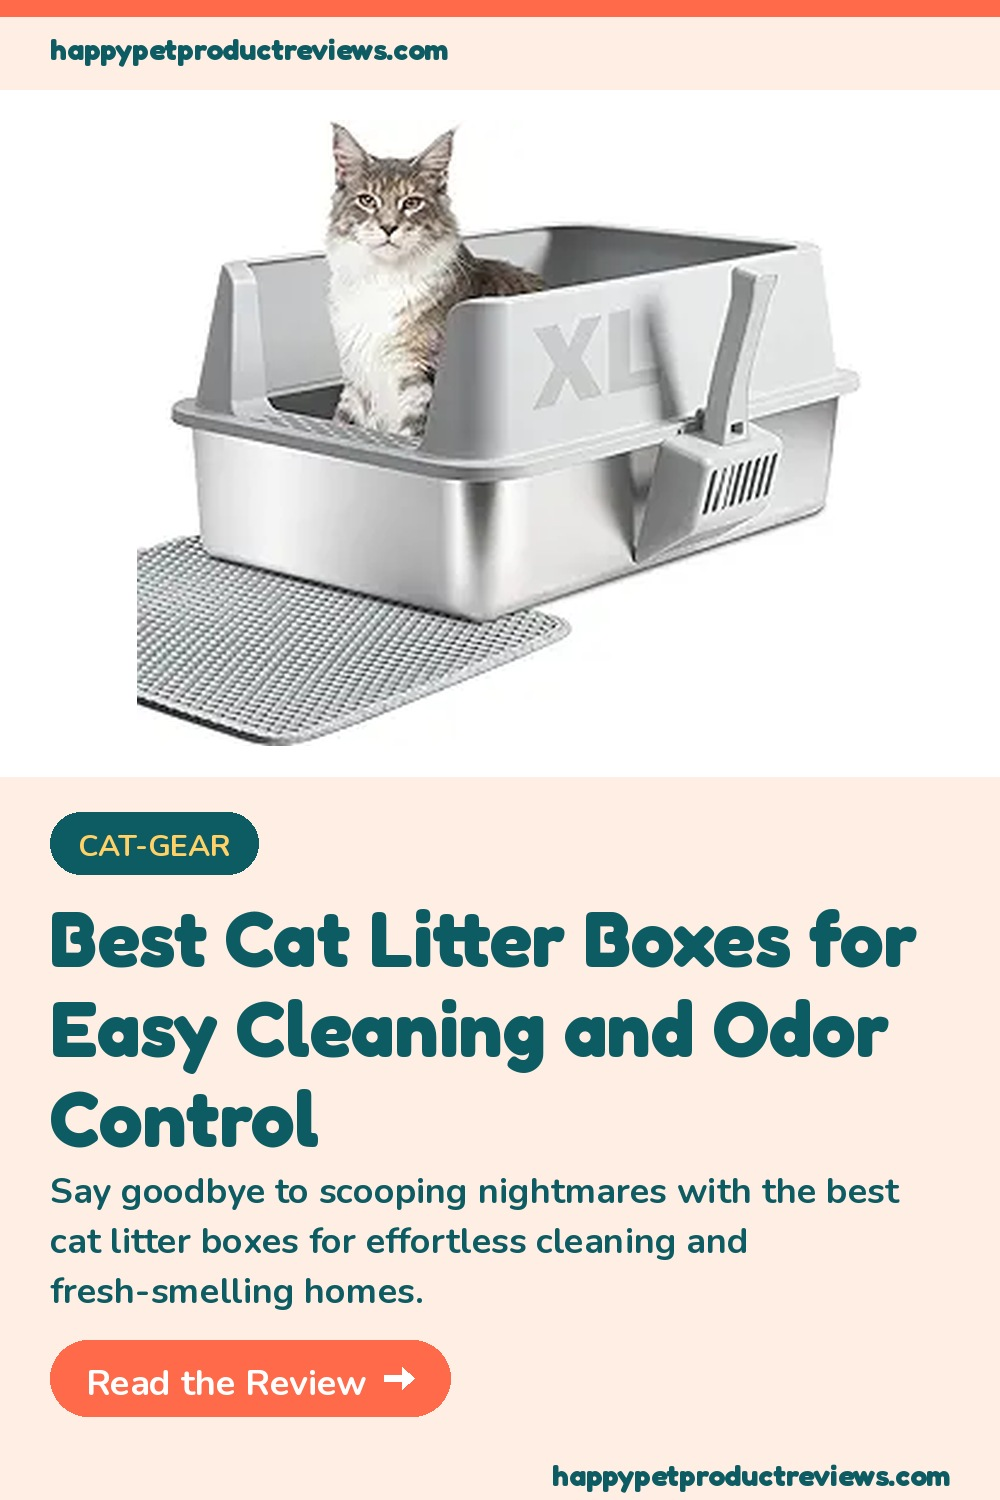
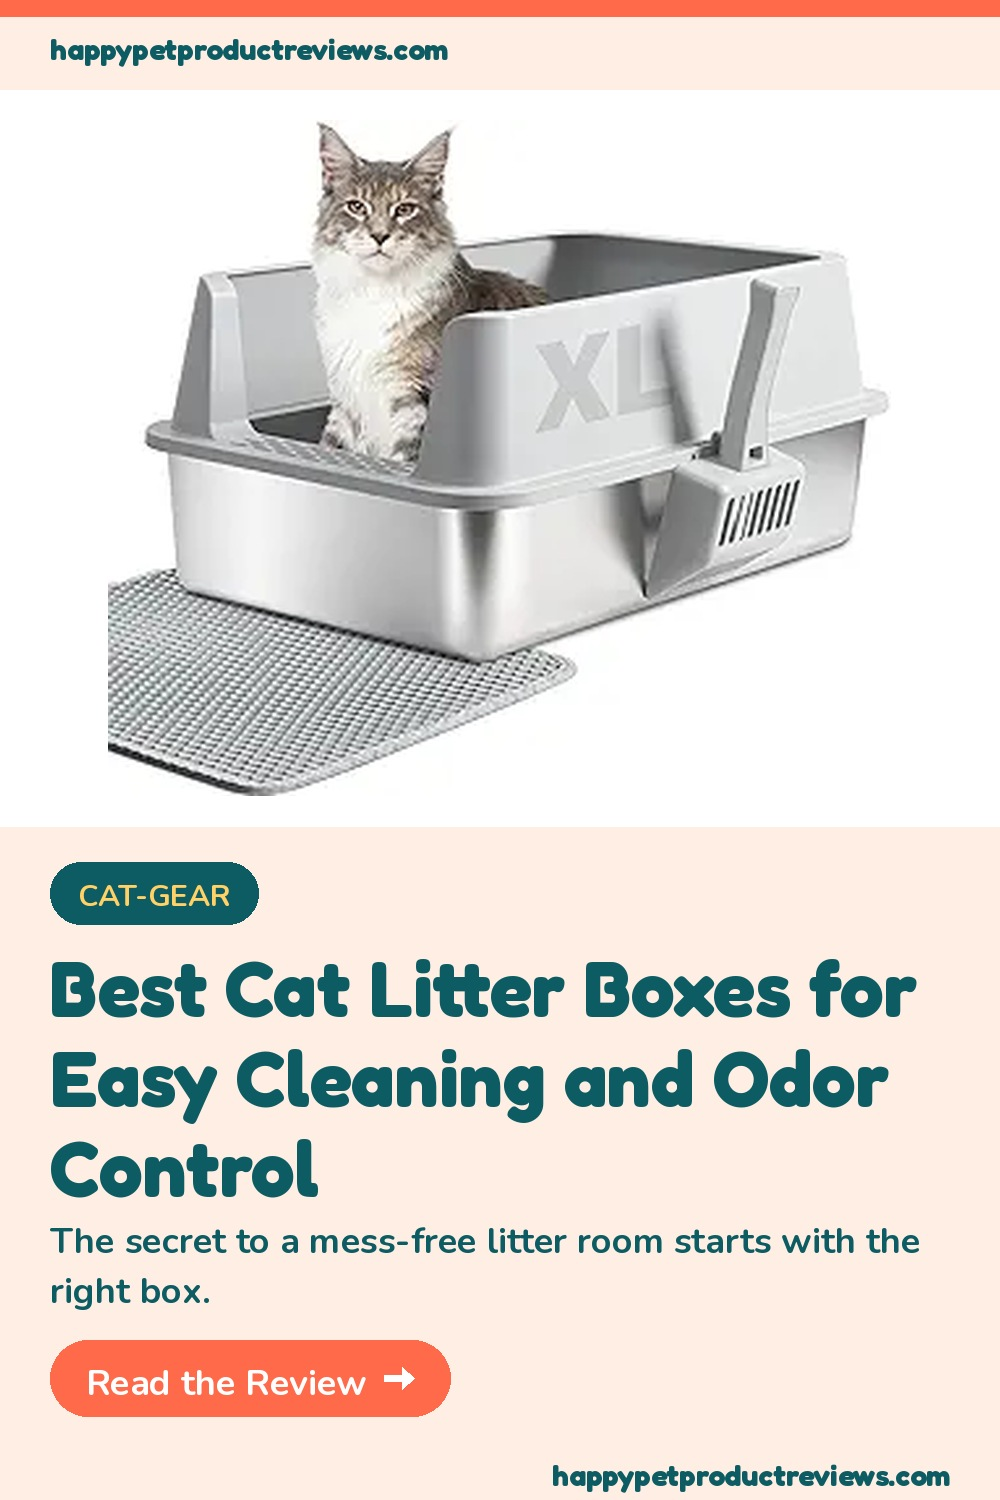
auto: stage generated files 2026-04-19

Changed region(s): [[0.0, 0.0613, 1.0, 0.8893]]

diff --git a/_posts/DRAFT-best-cat-litter-boxes.md b/_posts/DRAFT-best-cat-litter-boxes.md
@@ -1,0 +1,88 @@
+---
+layout: post
+title: "Best Cat Litter Boxes for Easy Cleaning and Odor Control"
+date: 2026-04-19
+categories: [cat-gear]
+species: cat
+tags: [best cat litter boxes]
+description: "The secret to a mess‑free litter room starts with the right box."
+affiliate_url: "https://amzn.to/3QePDv1"
+image: "https://m.media-amazon.com/images/I/61yepIfxn0L._AC_SX300_SY300_QL70_FMwebp_.jpg"
+---
+
+
+# Best Cat Litter Boxes for Easy Cleaning and Odor Control
+
+Ever walked into the bathroom to find a fresh‑scented cloud of cat litter dust hovering over the floor? We’ve all been there—your cat’s box looks tidy, but the smell clings to every surface, and cleaning it feels like a chore you’d rather skip. After testing dozens of options, we’ve narrowed the field to the **best cat litter boxes** that actually make scooping quick, keep odors in check, and stay durable enough for daily use. Below you’ll find our top pick, a handful of solid alternatives, and a quick‑reference table to help you decide which style fits your home and your cat’s personality.
+
+## Quick Picks
+
+| Rank | Product | Why It Stands Out |
+|------|---------|-------------------|
+| 1 | **[Stainless Steel Cat Litter Box with Lid, XL Metal, Extra Large](https://amzn.to/3QePDv1)** | Ultra‑durable, odor‑blocking lid, easy‑wipe surface |
+| 2 | Eco-Friendly Recycled Plastic Box with Replaceable Carbon Filter | Eco‑conscious, low‑profile design |
+| 3 | Self‑Cleaning Automatic Litter Box with Adjustable Cycle | Hands‑free cleaning, ideal for multiple cats |
+| 4 | Large Covered Fabric Litter Box with Snap‑On Lid | Soft entry for shy cats, lightweight |
+| 5 | Open Top High‑Sides Plastic Box with Non‑Stick Coating | Simple, budget‑friendly, easy to assemble |
+
+---
+
+### Featured Pick: Stainless Steel Cat Litter Box with Lid, XL Metal, Extra Large  
+
+Our top choice earns a solid 4.6/5 star rating on Amazon and costs $37.99. The extra‑large dimensions give even a big Maine Coon plenty of room, while the sleek metal construction resists scratches and odors better than most plastic models. Many owners report that the tight‑fitting lid traps smells, and the smooth interior wipes clean with a damp cloth—no scooping required beyond the usual litter removal.
+
+**Pros**
+- Extremely durable; won’t crack or warp over time  
+- Lid contains odor, reducing the need for frequent litter changes  
+- Easy to clean; surface wipes like a kitchen countertop  
+- Large size accommodates multiple cats or a senior cat with mobility issues  
+
+**Cons**
+- Heavier than plastic boxes; may need two people to move initially  
+- No built‑in self‑cleaning mechanism; still requires manual scooping  
+
+---
+
+#### Eco-Friendly Recycled Plastic Box with Replaceable Carbon Filter  
+
+This box is made from post‑consumer recycled plastic, giving you a greener option without sacrificing sturdiness. The carbon filter slot is a nice touch for extra odor control, and the low‑profile design slides neatly under furniture. However, the plastic can become scratched over time, which may let a little dust escape, and the filter needs replacement every few weeks to stay effective.
+
+#### Self‑Cleaning Automatic Litter Box with Adjustable Cycle  
+
+If you’d rather spend your time playing with your cat than scooping, an automatic box can be a lifesaver. It rakes waste into a sealed drawer after each use, and you can set the cleaning cycle to suit your cat’s habits. The tech feels modern, but the unit is pricey and requires regular maintenance of the mechanical parts. Some cats need a short adjustment period before they trust the moving rake.
+
+#### Large Covered Fabric Litter Box with Snap‑On Lid  
+
+Soft, fabric walls make this box inviting for shy or elderly cats that prefer a cozy enclosure. The snap‑on lid is easy to remove for cleaning, and the whole unit folds flat for storage when not in use. On the downside, fabric can absorb odors if not washed regularly, and the structure isn’t as sturdy as metal or hard plastic, so it may wobble on uneven floors.
+
+#### Open Top High‑Sides Plastic Box with Non‑Stick Coating  
+
+A classic open‑top design with tall sides keeps litter from spilling during enthusiastic digging. The non‑stick coating helps prevent litter from clinging to the walls, making scoops faster. It’s the most budget‑friendly option on our list, but the simple plastic construction can develop cracks after years of heavy use, and there’s no lid to help control smells.
+
+## Comparison Table
+
+| Product | Best For | Price Range | Chew Time |
+|---------|----------|-------------|-----------|
+| Stainless Steel Cat Litter Box with Lid, XL Metal, Extra Large | Heavy‑use households, odor control | $$ | Quick |
+| Eco-Friendly Recycled Plastic Box with Replaceable Carbon Filter | Eco‑conscious owners, moderate odor | $ | Moderate |
+| Self‑Cleaning Automatic Litter Box with Adjustable Cycle | Busy cat owners, multiple cats | $$$ | Quick |
+| Large Covered Fabric Litter Box with Snap‑On Lid | Shy or senior cats, portable | $ | Moderate |
+| Open Top High‑Sides Plastic Box with Non‑Stick Coating | Budget shoppers, simple setup | $ | Quick |
+
+## Buying Guide: What to Look for in a Cat Litter Box
+
+Choosing the right box starts with understanding your cat’s habits and your own cleaning tolerance. First, consider **size**. Cats like to spread their paws, so a box that’s at least as long as your cat from nose to tail tip is ideal. An extra‑large model prevents cramped postures and reduces the likelihood of accidents outside the box.
+
+**Lid vs. open** is another big decision. Covered boxes trap odors better, but some cats feel confined and may avoid them. If your feline is nervous, a low‑profile open box with high sides can give a sense of security while still keeping litter from spilling. For odor‑prone homes, look for a lid that seals tightly and a material that doesn’t absorb smells—metal and carbon‑filter accessories excel here.
+
+**Material durability** matters for long‑term value. Plastic boxes are lightweight and cheap, yet they can crack or warp with repeated cleaning. Metal boxes, especially stainless steel, resist scratches and stay hygienic longer, though they are heavier. Fabric boxes are lightweight and cozy but need regular washing to prevent odor buildup.
+
+**Ease of cleaning** can save you minutes each day. Smooth surfaces—whether stainless steel or coated plastic—allow a quick wipe with a damp cloth after scooping. Some models include removable liners or self‑cleaning mechanisms; these add convenience but also increase cost and moving parts that may need occasional repair.
+
+Don’t forget **accessibility** for older or arthritic cats. A box with a low entry point or a ramp can make a huge difference, as can a sturdy lid that doesn’t require a cat to push it open with force. Lastly, think about **placement**. A box that fits under a cabinet or beside a litter mat will stay out of high‑traffic zones, reducing tracking.
+
+By weighing these factors—size, lid preference, material, cleaning ease, and accessibility—you’ll land on a box that matches both your cat’s comfort and your desire for a fresher home. For deeper insight on keeping the air clean, check out our article on [cat litter odor control](https://happypetproductreviews.com/cat-litter/best-cat-litter-odor-control/).
+
+## Closing Thoughts
+
+Finding a litter box that blends durability, easy maintenance, and odor control doesn’t have to feel like a treasure hunt. After testing a range of styles, the **[Stainless Steel Cat Litter Box with Lid, XL Metal, Extra Large](https://amzn.to/3QePDv1)** consistently delivered on the promises of the **best cat litter boxes** category. Its sturdy construction, secure lid, and effortless wipe‑down surface make it a smart investment for any cat household. Give it a try—you and your cat will thank you for the cleaner, fresher space.
